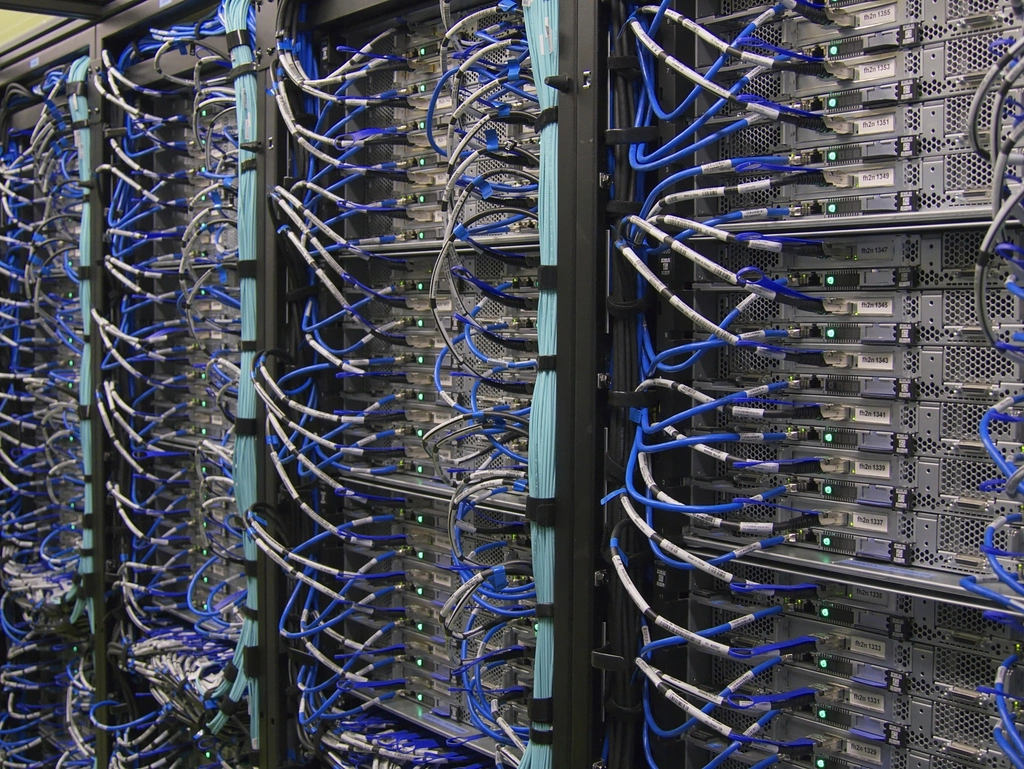
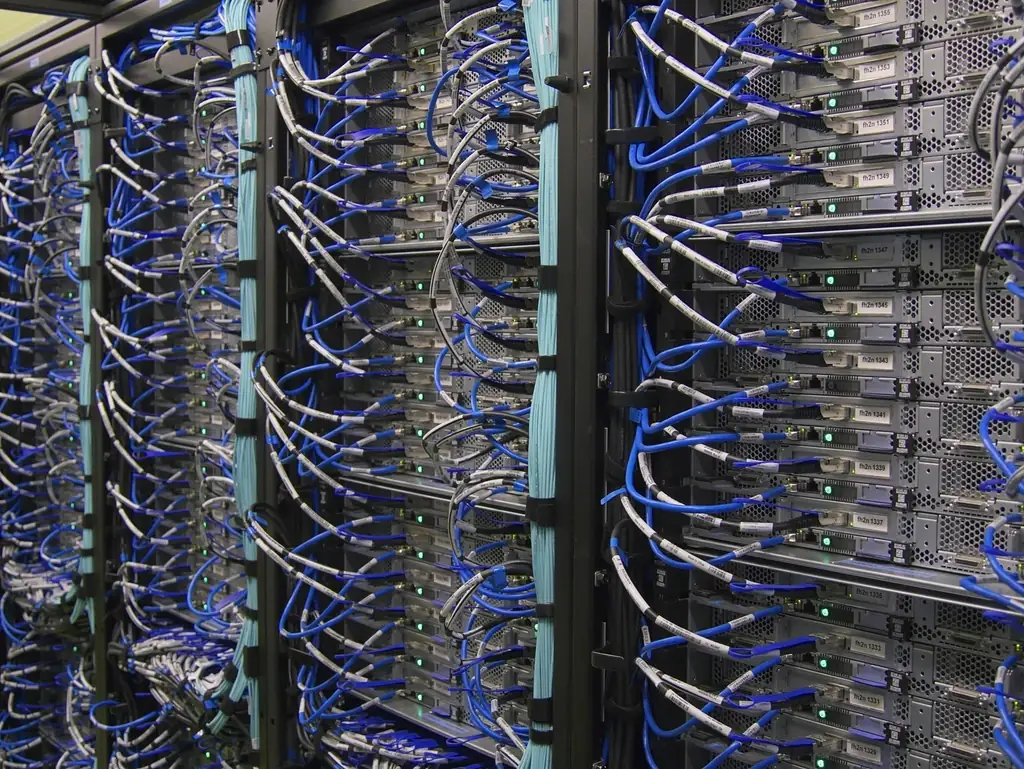
Faster first paint: pages and hero text visible at once; smaller course photos; founders' experience label; Otto name
- Page wrapper no longer starts the first page invisible; moving between pages still fades in.
- Home hero headline, intro, buttons and figures, and course page headlines, show from the first paint with a CSS rise (no fade from invisible); headline read as plain text by screen readers.
- ServiceNow, AI & ML and Cybersecurity course photos re-encoded (505/425/246 KB to 143/31/43 KB), same size on screen.
- Figure box reads '2 decades / Our founders' IT experience' (ARA was founded in 2022).
- ServiceNow course card: 'ServiceNow Otto summarised INC0012'.

diff --git a/src/components/home/Hero.tsx b/src/components/home/Hero.tsx
@@ -6,17 +6,15 @@ import { site, stats } from '@/content/site';
 import { ButtonLink } from '@/components/ui/Button';
 import { Container } from '@/components/ui/Section';
 import { EnquiryButton } from '@/components/enquiry/EnquiryProvider';
-import { CountUp, EASE, Magnetic, SplitWords, useReducedMotionSafe } from '@/components/motion/primitives';
+import { CountUp, EASE, Magnetic, RiseWords, useReducedMotionSafe } from '@/components/motion/primitives';
 import { TalentOrbit } from '@/components/visuals/TalentOrbit';
 import { HeroNetwork } from '@/components/visuals/HeroNetwork';
 import { MediaBackground } from '@/components/motion/MediaBackground';
 import { cn } from '@/lib/cn';
 
-const fadeUp = (delay: number) => ({
-  initial: { opacity: 0, y: 18, filter: 'blur(6px)' },
-  animate: { opacity: 1, y: 0, filter: 'blur(0px)' },
-  transition: { duration: 0.9, ease: EASE, delay },
-});
+// The headline, intro, buttons and figures are on screen from the very first paint and only rise into place
+// (CSS, no fade from invisible), so slow phones show them at once and Google counts the page as loaded straight away.
+const rise = (delay: number) => ({ animationDelay: `${delay}s` });
 
 export function Hero() {
   const ref = useRef<HTMLElement>(null);
@@ -64,25 +62,25 @@ export function Hero() {
       <Container className="grid grid-cols-1 items-center gap-14 lg:grid-cols-[1.05fr_0.95fr] lg:gap-8 [&>*]:min-w-0">
         <motion.div style={reduce ? undefined : { y: contentY, opacity: contentOpacity }}>
           <h1 className="text-balance text-[length:clamp(1.95rem,9.4vw,2.4rem)] font-semibold leading-[1.04] tracking-[-0.045em] sm:text-6xl lg:text-[length:clamp(2.6rem,min(4.2vw,7.4vh),4.1rem)] [@media(max-width:639px)_and_(max-height:600px)]:text-[length:clamp(1.7rem,8.4vw,2.05rem)]">
-            <SplitWords delay={0.15}>Empowering businesses through talent.</SplitWords>{' '}
-            <SplitWords
-              delay={0.45}
+            <RiseWords>Empowering businesses through talent.</RiseWords>{' '}
+            <RiseWords
+              delay={0.2}
               className="font-serif font-normal italic tracking-[-0.02em]"
               wordClassName="text-gradient pr-[0.06em]"
             >
               Transforming careers
-            </SplitWords>{' '}
-            <SplitWords delay={0.6}>through technology.</SplitWords>
+            </RiseWords>{' '}
+            <RiseWords delay={0.3}>through technology.</RiseWords>
           </h1>
 
-          <motion.p
-            {...fadeUp(0.75)}
-            className="mt-6 max-w-xl text-pretty text-base leading-relaxed text-white/65 sm:text-lg [@media(max-height:760px)]:mt-4"
+          <p
+            className="rise-in mt-6 max-w-xl text-pretty text-base leading-relaxed text-white/65 sm:text-lg [@media(max-height:760px)]:mt-4"
+            style={rise(0.4)}
           >
             {site.description}
-          </motion.p>
+          </p>
 
-          <motion.div {...fadeUp(0.9)} className="mt-9 flex flex-wrap gap-3 [@media(max-height:760px)]:mt-6">
+          <div className="rise-in mt-9 flex flex-wrap gap-3 [@media(max-height:760px)]:mt-6" style={rise(0.5)}>
             <Magnetic>
               <EnquiryButton size="lg" arrow interest="hiring" title="Tell us about the talent you need">
                 Hire talent
@@ -93,7 +91,7 @@ export function Hero() {
                 Explore training
               </ButtonLink>
             </Magnetic>
-          </motion.div>
+          </div>
         </motion.div>
 
         <motion.div
@@ -107,9 +105,9 @@ export function Hero() {
       </Container>
 
       <Container className="mt-16 sm:mt-20">
-        <motion.dl
-          {...fadeUp(1.05)}
-          className="grid grid-cols-2 rounded-2xl border border-white/10 bg-white/[0.03] backdrop-blur lg:grid-cols-4"
+        <dl
+          className="rise-in grid grid-cols-2 rounded-2xl border border-white/10 bg-white/[0.03] backdrop-blur lg:grid-cols-4"
+          style={rise(0.6)}
         >
           {stats.map((stat, index) => (
             <div
@@ -127,7 +125,7 @@ export function Hero() {
               <dt className="order-2 text-sm text-white/55">{stat.label}</dt>
             </div>
           ))}
-        </motion.dl>
+        </dl>
       </Container>
     </section>
   );

diff --git a/src/components/motion/primitives.tsx b/src/components/motion/primitives.tsx
@@ -16,7 +16,7 @@ import {
   useTransform,
   type HTMLMotionProps,
 } from 'motion/react';
-import { Children, useEffect, useRef, useState, type ReactNode } from 'react';
+import { Children, Fragment, useEffect, useRef, useState, type ReactNode } from 'react';
 import { cn } from '@/lib/cn';
 
 export const EASE = [0.22, 1, 0.36, 1] as const;
@@ -33,44 +33,35 @@ export function useReducedMotionSafe() {
   return mounted ? Boolean(prefers) : false;
 }
 
-/** Headline that reveals word by word: each word rises out of a mask and sharpens from a blur. */
-export function SplitWords({
+/**
+ * Headline that rises word by word. The words are visible from the very first paint (a CSS rise, no fade from
+ * invisible and no wait for the page's scripts), so slow phones show the headline at once and Google counts the
+ * page as loaded straight away. Screen readers read it as normal text.
+ */
+export function RiseWords({
   children,
   className,
   wordClassName,
   delay = 0,
   stagger = 0.045,
-  inView = false,
 }: {
   children: string;
   className?: string;
-  /** Classes for each word (e.g. gradient text, which must sit on the animated element). */
+  /** Classes for each word, e.g. gradient text (kept off the moving element, whose animation it would replace). */
   wordClassName?: string;
   delay?: number;
   stagger?: number;
-  /** Animate when scrolled into view (default: on mount, for above-the-fold text). */
-  inView?: boolean;
 }) {
-  const reduce = useReducedMotionSafe();
-  const ref = useRef<HTMLSpanElement>(null);
-  const visible = useInView(ref, { once: true, margin: '0px 0px -12% 0px' });
-  const show = !inView || visible;
   const words = children.split(' ');
-  if (reduce) return <span className={cn(className, wordClassName)}>{children}</span>;
   return (
-    <span ref={ref} className={className} aria-label={children}>
+    <span className={className}>
       {words.map((word, index) => (
-        <span key={`${word}-${index}`} aria-hidden className="inline-block overflow-hidden pb-[0.12em] align-top">
-          <motion.span
-            className={cn('inline-block will-change-transform', wordClassName)}
-            initial={{ y: '105%', opacity: 0, filter: 'blur(8px)' }}
-            animate={show ? { y: '0%', opacity: 1, filter: 'blur(0px)' } : undefined}
-            transition={{ duration: 0.9, ease: EASE, delay: delay + index * stagger }}
-          >
-            {word}
-            {index < words.length - 1 ? ' ' : ''}
-          </motion.span>
-        </span>
+        <Fragment key={`${word}-${index}`}>
+          <span className="rise-in inline-block" style={{ animationDelay: `${delay + index * stagger}s` }}>
+            {wordClassName ? <span className={cn('inline-block', wordClassName)}>{word}</span> : word}
+          </span>
+          {index < words.length - 1 ? ' ' : null}
+        </Fragment>
       ))}
     </span>
   );

diff --git a/src/components/program/ProgramHero.tsx b/src/components/program/ProgramHero.tsx
@@ -7,7 +7,7 @@ import { cn } from '@/lib/cn';
 import { Container } from '@/components/ui/Section';
 import { EnquiryButton } from '@/components/enquiry/EnquiryProvider';
 import { ProgramVisual } from '@/components/visuals/ProgramVisual';
-import { SplitWords, Tilt } from '@/components/motion/primitives';
+import { RiseWords, Tilt } from '@/components/motion/primitives';
 import { HeroPhoto } from '@/components/motion/HeroPhoto';
 import { DarkHeroBackdrop } from '@/components/motion/DarkHeroBackdrop';
 
@@ -74,9 +74,9 @@ export function ProgramHero({ program, track }: { program: Program; track?: Trac
               </p>
             </div>
             <h1 className="mt-6 text-balance text-[length:clamp(1.85rem,8.6vw,2.25rem)] font-semibold leading-[1.04] tracking-[-0.04em] sm:text-[length:clamp(2.6rem,min(6vw,7.6vh),3.75rem)] [@media(max-height:800px)]:mt-4 [@media(max-width:639px)_and_(max-height:600px)]:mt-0">
-              <SplitWords delay={0.15} stagger={0.06}>
+              <RiseWords delay={0.1} stagger={0.06}>
                 {program.h1 ?? program.name}
-              </SplitWords>
+              </RiseWords>
             </h1>
             <p className="fade-up mt-6 max-w-xl text-pretty text-base leading-relaxed text-white/65 [animation-delay:180ms] sm:text-lg [@media(max-height:800px)]:mt-4">
               {program.summary}

diff --git a/src/app/template.tsx b/src/app/template.tsx
@@ -1,15 +1,26 @@
 'use client';
 
-import { motion } from 'motion/react';
-import { useReducedMotionSafe } from '@/components/motion/primitives';
+import { motion, useReducedMotion } from 'motion/react';
+import { useEffect, useState } from 'react';
 
-/** Page transition: each page fades and rises in when you navigate. */
+/** True until the first page a visitor opens has been shown. */
+let firstPage = true;
+
+/**
+ * Page transition: when you move to another page, it fades and rises in. The first page a visitor opens is
+ * shown at once, never hidden: starting it invisible until the scripts load left phones on a blank screen for
+ * seconds and made Google count the page as slow. The wrapper stays the same element either way, so nothing
+ * is rebuilt after the page loads.
+ */
 export default function Template({ children }: { children: React.ReactNode }) {
-  const reduce = useReducedMotionSafe();
-  if (reduce) return children;
+  const prefersReduced = useReducedMotion();
+  const [fade] = useState(() => !firstPage);
+  useEffect(() => {
+    firstPage = false;
+  }, []);
   return (
     <motion.div
-      initial={{ opacity: 0, y: 12 }}
+      initial={fade && !prefersReduced ? { opacity: 0, y: 12 } : false}
       animate={{ opacity: 1, y: 0 }}
       transition={{ duration: 0.55, ease: [0.22, 1, 0.36, 1] }}
     >

diff --git a/src/content/site.ts b/src/content/site.ts
@@ -46,7 +46,8 @@ export const site = {
 } as const;
 
 /**
- * Headline numbers: years from the client (2 decades in the IT industry, Nov 2026), placements from ARA's
+ * Headline numbers: years from the client (the founders' 2 decades in the IT industry, Nov 2026; ARA itself was
+ * founded in 2022, so the label says whose experience it is), placements from ARA's
  * original website, screened profiles and shortlist time from ARA's pitch deck.
  */
 export type Stat = {
@@ -58,7 +59,7 @@ export type Stat = {
 };
 
 export const stats: readonly Stat[] = [
-  { value: 20, suffix: '+', text: '2 decades', label: 'In the IT industry' },
+  { value: 20, suffix: '+', text: '2 decades', label: "Our founders' IT experience" },
   { value: 10000, suffix: '+', label: 'Screened talent profiles' },
   { value: 1000, suffix: '+', label: 'Professionals placed' },
   { value: 48, suffix: ' hrs', label: 'To a targeted shortlist' },

diff --git a/src/app/globals.css b/src/app/globals.css
@@ -115,6 +115,22 @@
   animation: fade-up 0.7s cubic-bezier(0.22, 1, 0.36, 1) both;
 }
 
+/* A page's main headline and intro: a short rise only, never hidden. The text is on screen from the very first
+   paint, so Google counts the page as loaded at once (a fade from invisible waits for the scripts on slow phones). */
+@keyframes rise-in {
+  from {
+    transform: translateY(0.45em);
+  }
+}
+.rise-in {
+  animation: rise-in 0.9s cubic-bezier(0.22, 1, 0.36, 1) both;
+}
+@media (prefers-reduced-motion: reduce) {
+  .rise-in {
+    animation: none;
+  }
+}
+
 /* Soft aurora used behind dark heroes. */
 .aurora {
   background:

diff --git a/src/app/company/case-studies/page.tsx b/src/app/company/case-studies/page.tsx
@@ -25,7 +25,7 @@ export const metadata: Metadata = {
 
 /** Training outcomes: real figures only (from ARA's original website and the program list). */
 const TRAINING_FIGURES: Stat[] = [
-  ...stats.filter((stat) => /placed|industry/i.test(stat.label)),
+  ...stats.filter((stat) => /placed|experience/i.test(stat.label)),
   { value: allPrograms.length, suffix: '', label: 'Career-focused training courses' },
 ];
 

diff --git a/src/components/home/AudienceSections.tsx b/src/components/home/AudienceSections.tsx
@@ -94,7 +94,7 @@ export function TrainingPillars() {
 
 /** Training figures: real numbers only (from ARA's original website and the program list). */
 const CAREER_FIGURES: Stat[] = [
-  ...stats.filter((stat) => /placed|industry/i.test(stat.label)),
+  ...stats.filter((stat) => /placed|experience/i.test(stat.label)),
   { value: allPrograms.length, suffix: '', label: 'Career-focused courses' },
 ];
 

diff --git a/src/components/visuals/ProgramVisual.tsx b/src/components/visuals/ProgramVisual.tsx
@@ -420,7 +420,7 @@ function ServiceNowVisual() {
               s(4),
             )}
           >
-            <Sparkles aria-hidden className="size-4" /> Now Assist summarised INC0012 for the resolver group
+            <Sparkles aria-hidden className="size-4" /> ServiceNow Otto summarised INC0012 for the resolver group
           </div>
         </>
       )}
